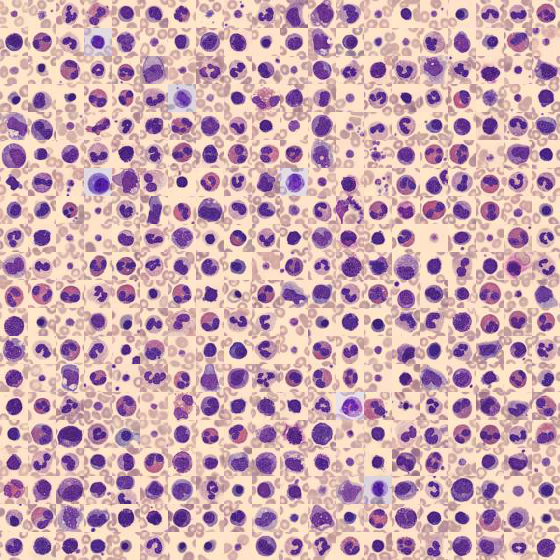
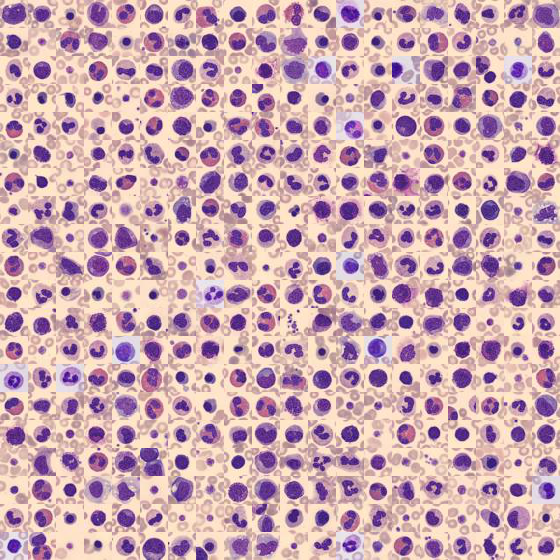
Created vizualizations for the dataset.

diff --git a/data_visualization.py b/data_visualization.py
@@ -5,29 +5,75 @@ import torch.utils.data as data
 import medmnist
 from medmnist import INFO, Evaluator
 from PIL import Image
+import numpy as np
+import pandas as pd
+import matplotlib.pyplot as plt
+import seaborn as sns
 
-data_flag = 'bloodmnist'
+data_flag = "bloodmnist"
 download = True
 BATCH_SIZE = 128
 
 info = INFO[data_flag]
-task = info['task']
-n_channels = info['n_channels']
-n_classes = len(info['label'])
+task = info["task"]
+n_channels = info["n_channels"]
+n_classes = len(info["label"])
 
-DataClass = getattr(medmnist, info['python_class'])
+DataClass = getattr(medmnist, info["python_class"])
 
 data_blood_train = torch.load("data/data_blood_train.pt")
 data_blood_test = torch.load("data/data_blood_test.pt")
 data_blood_val = torch.load("data/data_blood_val.pt")
 
-# Visualization
+# Visualizations
+
+# 1. Visualize the 400 samples of the training set
 montage_train_1 = data_blood_train.montage(length=1)
 montage_train_20 = data_blood_train.montage(length=20)
+montage_train_40 = data_blood_train.montage(length=40)
 
-plots_folder = 'plots/'
+plots_folder = "plots/"
 if not os.path.exists(plots_folder):
     os.makedirs(plots_folder)
 
-montage_train_1.save(os.path.join(plots_folder, 'montage_train_1.png'))
-montage_train_20.save(os.path.join(plots_folder, 'montage_train_20.png'))
+montage_train_1.save(os.path.join(plots_folder, "montage_train_1.png"))
+montage_train_20.save(os.path.join(plots_folder, "montage_train_20.png"))
+montage_train_40.save(os.path.join(plots_folder, "montage_train_40.png"))
+
+# 2. Visualize the distribution of the labels of the training set
+df_labels = pd.DataFrame(data_blood_train.labels, columns=["Label"])
+
+# Mapping of labels to their full names
+label_names = {
+    0: "Basophil",
+    1: "Eosinophil",
+    2: "Erythroblast",
+    3: "Immature Granulocytes",
+    4: "Lymphocyte",
+    5: "Monocyte",
+    6: "Neutrophil",
+    7: "Platelet"
+}
+
+# Replace label codes with their full names
+df_labels["Label"] = df_labels["Label"].map(label_names)
+
+# Calculate the count of each label category and sort by index
+label_counts = df_labels["Label"].value_counts().sort_index()
+
+# Create a DataFrame directly from label counts
+df_label_counts = pd.DataFrame({"Label": label_counts.index, "Count": label_counts.values})
+
+# Display the table of label counts
+print("Table of Label Counts:")
+print(df_label_counts)
+
+# Plot the distribution of labels
+plt.figure(figsize=(16, 8))
+sns.countplot(y='Label', data=df_labels, palette='pastel')
+plt.title('Distribution of Labels in Training Set', fontsize=20)
+plt.xlabel('Count', fontsize=16)
+plt.ylabel('Label', fontsize=16)
+plt.tick_params(axis='both', which='major', labelsize=12)
+plt.tight_layout()
+plt.savefig("plots/train_label_distribution.png")
